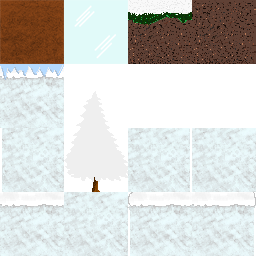
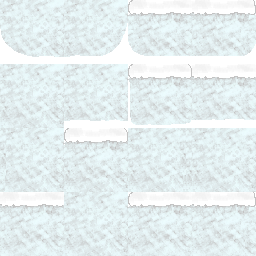
- improved tilemap * still to be finalized - improved design - improved camera * still to be finalized

diff --git a/engine/combiner/wgTileMap.js b/engine/combiner/wgTileMap.js
@@ -77,30 +77,53 @@ var wgTileMap = new function()
             args = new Array();
             
             if(this.tiles[tdata[i]]!=undefined) {
-                
-                //there may not only be one texture but multiple textures: top,topleft,topright,left,right,default
-                if(this.tiles[tdata[i]].length>=7) {
+                if(this.tiles[tdata[i]].length>=15) {
                     
                     // choose the right tile, depending on neighbours
-                    if((!tdata[(row-1)*this.width+(col)] && !tdata[(row)*this.width+(col-1)]) || !tdata[(row)*this.width+(col-1)]&&this.tiles[tdata[(row-1)*this.width+(col)]]!=this.tiles[tdata[(row)*this.width+(col)]])
+					//document.getElementById("info").innerHTML+=tdata[i]+"-"+"left"+tdata[(row)*this.width+(col-1)]+"right"+tdata[(row)*this.width+(col+1)]+"up"+tdata[(row-1)*this.width+(col)]+"dn"+tdata[(row+1)*this.width+(col)]+"<br/>";
+					
+					if(!tdata[(row-1)*this.width+(col)] && !tdata[(row+1)*this.width+(col)] && !tdata[(row)*this.width+(col+1)] && !tdata[(row)*this.width+(col-1)])
+                      args = this.tiles[tdata[i]][14];   //single
+					else if(!tdata[(row-1)*this.width+(col)] && !tdata[(row)*this.width+(col+1)] && !tdata[(row)*this.width+(col-1)])
+                      args = this.tiles[tdata[i]][7];   //topsingle
+					
+					else if(!tdata[(row-1)*this.width+(col)] && !tdata[(row+1)*this.width+(col)] && !tdata[(row)*this.width+(col-1)])
+                      args = this.tiles[tdata[i]][10];   //topbottomleft
+					else if(!tdata[(row-1)*this.width+(col)] && !tdata[(row+1)*this.width+(col)] && !tdata[(row)*this.width+(col+1)])
+                      args = this.tiles[tdata[i]][11];   //topbottomright
+					
+                    else if(!tdata[(row-1)*this.width+(col)] && !tdata[(row+1)*this.width+(col)])
+                      args = this.tiles[tdata[i]][9];   //topbottom
+					else if((!tdata[(row-1)*this.width+(col)] && !tdata[(row)*this.width+(col-1)]) || !tdata[(row)*this.width+(col-1)]&&this.tiles[tdata[(row-1)*this.width+(col)]]!=this.tiles[tdata[(row)*this.width+(col)]])
                       args = this.tiles[tdata[i]][2];   //topleft
                     else if((!tdata[(row-1)*this.width+(col)] && !tdata[(row)*this.width+(col+1)]) || !tdata[(row)*this.width+(col+1)]&&this.tiles[tdata[(row-1)*this.width+(col)]]!=this.tiles[tdata[(row)*this.width+(col)]])
                       args = this.tiles[tdata[i]][4];   //topright
                     else if(!tdata[(row-1)*this.width+(col)] || this.tiles[tdata[(row-1)*this.width+(col)]]!=this.tiles[tdata[(row)*this.width+(col)]])
                       args = this.tiles[tdata[i]][3];   //top
+					else if(!tdata[(row+1)*this.width+(col)] && !tdata[(row)*this.width+(col-1)])
+                      args = this.tiles[tdata[i]][12];   //bottomleft
+					else if(!tdata[(row+1)*this.width+(col)] && !tdata[(row)*this.width+(col+1)])
+                      args = this.tiles[tdata[i]][13];   //bottomright
+					else if(!tdata[(row+1)*this.width+(col)])
+                      args = this.tiles[tdata[i]][8];   //bottom
+					else if(!tdata[(row)*this.width+(col-1)] && !tdata[(row)*this.width+(col+1)])
+                      args = this.tiles[tdata[i]][15];   //leftright
                     else if(!tdata[(row)*this.width+(col-1)])
                       args = this.tiles[tdata[i]][5];   //left
                     else if(!tdata[(row)*this.width+(col+1)])
                       args = this.tiles[tdata[i]][6];   //right
-                    else if(this.tiles[tdata[i]].length>7) {
-                      var min=7;
+					
+					
+                    else if(this.tiles[tdata[i]].length>16) {
+                      var min=16;
                       var max=this.tiles[tdata[i]].length;
                       var rand = Math.floor(Math.random()*(max-min))+min;
                       
                       args = this.tiles[tdata[i]][rand];   // random default tiles
                     }
+					
                     else
-                      args = this.tiles[tdata[i]][7];   //default
+                     args = this.tiles[tdata[i]][16];   //default
                 } else
                     args = this.tiles[tdata[i]][2];
                 

diff --git a/sample_0/level.js b/sample_0/level.js
@@ -21,18 +21,39 @@ function gIniTiles() {
                                    {tex: "sample_0/worldatlas.png",
                                     texinfo: {cols:4, rows:4, width:256, height:256, set:6}   //6right
                                     ,group: 0},
-                                   {tex: "sample_0/worldatlas.png",
-                                    texinfo: {cols:4, rows:4, width:256, height:256, set:1}   //7def
+									{tex: "sample_0/worldatlas.png",
+                                    texinfo: {cols:4, rows:4, width:256, height:256, set:5}   //7topsingle
+                                    ,group: 0},
+									{tex: "sample_0/worldatlas.png",
+                                    texinfo: {cols:4, rows:4, width:256, height:256, set:9}   //8bottom
+                                    ,group: 0},
+									{tex: "sample_0/worldatlas.png",
+                                    texinfo: {cols:4, rows:4, width:256, height:256, set:11}   //9topbottom
+                                    ,group: 0},
+									{tex: "sample_0/worldatlas.png",
+                                    texinfo: {cols:4, rows:4, width:256, height:256, set:14}   //10topbottomleft
+                                    ,group: 0},
+									{tex: "sample_0/worldatlas.png",
+                                    texinfo: {cols:4, rows:4, width:256, height:256, set:15}   //11topbottomright
+                                    ,group: 0},
+									{tex: "sample_0/worldatlas.png",
+                                    texinfo: {cols:4, rows:4, width:256, height:256, set:12}   //12bottomleft
+                                    ,group: 0},
+									{tex: "sample_0/worldatlas.png",
+                                    texinfo: {cols:4, rows:4, width:256, height:256, set:13}   //13bottomright
+                                    ,group: 0},
+									{tex: "sample_0/worldatlas.png",
+                                    texinfo: {cols:4, rows:4, width:256, height:256, set:10}   //14single
+                                    ,group: 0},
+									{tex: "sample_0/worldatlas.png",
+                                    texinfo: {cols:4, rows:4, width:256, height:256, set:8}   //15leftright
                                     ,group: 0},
                                    {tex: "sample_0/worldatlas.png",
-                                    texinfo: {cols:4, rows:4, width:256, height:256, set:7}  //8def2
+                                    texinfo: {cols:4, rows:4, width:256, height:256, set:1}   //16def
                                     ,group: 0}
                                );
   
-  wgTileMap.addTile(2, aIce, { tex: "sample_0/worldatlas.png",
-                                    texinfo: {cols:4, rows:4, width:256, height:256, set:13}
-                                    ,group: 0
-                               });
+  wgTileMap.addTile(2, aIce, { tex: "sample_0/ice.png" });
   
   //tree
   wgTileMap.addTile(4, aSolid, { tex: "sample_0/tree.png",

diff --git a/sample_0/style.css b/sample_0/style.css
@@ -1,6 +1,6 @@
 body {
-margin:0;
-padding:0;
+  margin:0;
+  padding:0;
 }
 
 #content {
@@ -21,29 +21,89 @@ padding:0;
 }
 
 #counter {
-  width: 350px;
-  height: 50px;
   z-index: 0;
   position: absolute;
   text-align: left;
   left: 40px;
   top: 40px;
-  font-family: comic sans ms, verdana, arial;
+  font-family: georgia, verdana, arial;
+  font-size: 25px;
+  padding: 7px;
+  padding-right: 11px;
+  background: #232323;
+  color: #fefefe;
+  border: 1px solid 222222;
+  -moz-border-radius: 4px;
+  -webkit-border-radius: 4px;
+  -khtml-border-radius: 4px;
+  border-radius: 4px;
+  opacity: .9;
 }
 
-#timer {
-  width: 350px;
-  height: 50px;
+#counter img {
+  margin:0;
+  padding:0;
+  padding-right: 4px;
+  border: 0;
+  float: left;
+}
+
+#infobig {
   z-index: 0;
   position: absolute;
   text-align: left;
-  left: 800px;
+  display: none;
+  left: 350px;
+  top: 40%;
+  width: 260px;
+  font-family: verdana, arial;
+  font-size: 12px;
+  padding: 7px;
+  background: #232323;
+  color: #fefefe;
+  border: 1px solid 222222;
+  -moz-border-radius: 4px;
+  -webkit-border-radius: 4px;
+  -khtml-border-radius: 4px;
+  border-radius: 4px;
+  opacity: .9;
+}
+#infobig h2 {
+  font-family: georgia, verdana, arial;
+  margin: 0;
+  font-size: 20px;
+}
+
+#infobig span {
+  
+  color: #fefefe;
+  font-size: 14px;
+}
+
+#timer {
+  width: 50px;
+  z-index: 0;
+  position: absolute;
+  text-align: left;
+  left: 860px;
   top: 40px;
-  font-family: comic sans ms, verdana, arial;
+  font-family: georgia, verdana, arial;
+  padding: 7px;
+  padding-left: 11px;
+  background: #232323;
+  color: #fefefe;
+  border: 1px solid 222222;
+  -moz-border-radius: 4px;
+  -webkit-border-radius: 4px;
+  -khtml-border-radius: 4px;
+  border-radius: 4px;
+  opacity: .9;
 }
 
 button {
-  font-family: comic sans ms, verdana, arial;
+  font-family: verdana, arial;
+  font-size: 11px;
+  padding: 3px;
   border: 1px dotted black;
   color: #f7f7f7;
   background-color: #121212;

diff --git a/sample_0/game.js b/sample_0/game.js
@@ -54,6 +54,12 @@ function gRestart()
 	gGiftOutput();
 	gGlobals.player.object.moveToFront();
 	gGlobals.timer = 0;
+	
+	if(document.getElementById("infobig").style.display == 'block') {
+		document.getElementById("infobig").style.display = 'none';
+		document.getElementById("timer").style.display = 'block';
+		document.getElementById("counter").style.display = 'block';
+	}
 }
 
 function gCalcGifts() {
@@ -75,21 +81,25 @@ function gFoundGift()
 
 function gGiftOutput() {
 	if(gGlobals.countgifts==gGlobals.countgiftsoverall) {
-		document.getElementById("counter").innerHTML = "Gratz! Alle Geschenke gefunden!<br/><button id=\"nextlevel\">N&auml;chstes Level Starten</button>";
+		document.getElementById("infobig").innerHTML = "<h2>Gratulation!</h2><br/>Du hast alle Geschenke gefunden in einer Zeit von nur <span>"+Math.round(gGlobals.timer*100)/100+" Sekunden</span>.<br/><br/><button id=\"restart\">Neuer Versuch</button> <button id=\"nextlevel\">N&auml;chstes Level</button>";
+		document.getElementById("infobig").style.display = 'block';
+		document.getElementById("timer").style.display = 'none';
+		document.getElementById("counter").style.display = 'none';		
 		document.getElementById("nextlevel").onclick = gNextLevel;
+		document.getElementById("restart").onclick = gRestart;
 		wgKeyboard.onEnter = gNextLevel;
 	}
 	else
-		document.getElementById("counter").innerHTML = "Geschenke: "+gGlobals.countgifts+" / "+gGlobals.countgiftsoverall;
+		document.getElementById("counter").innerHTML = "<img src=\"sample_0/present01.png\"/> "+gGlobals.countgifts+" / "+gGlobals.countgiftsoverall;
 }
 
 function gameevent(ts)
 {
 	if(gGlobals.countgifts==gGlobals.countgiftsoverall)
 		return;
-
+	
 	gGlobals.timer += ts/1000.0;
-	document.getElementById("timer").innerHTML = "Time: "+Math.round(gGlobals.timer*1000.0)/1000.0;
+	document.getElementById("timer").innerHTML = Math.round(gGlobals.timer*100.0)/100.0;
 }
 
 function main()

diff --git a/engine/graphics/wgCamera.js b/engine/graphics/wgCamera.js
@@ -29,21 +29,29 @@ var wgCamera = new function()
     this.dir = 0;
     
     this.update = function(x,y) {
+	
 		if(this.pos.x==0||this.pos.y==0) {
 			this.pos.x=x;
 			this.pos.y=y;
 		}
 	
+        if(wgKeyboard.left)
+          this.dir=-1;
         
-        if(y>gGlobals.lvlbd+300)
-          this.pos.y=y;
-        
-        if(wgKeyboard.left&&this.dir>-100)
-          this.dir-=5;
-        
-        if(wgKeyboard.right&&this.dir<100)
-          this.dir+=5;
-        
-          this.pos.x=x+this.dir;
+        if(wgKeyboard.right)
+          this.dir=1;
+
+		// bottom border
+        if(y>gGlobals.lvlbd+400)
+			if(y-this.pos.y>this.pos.y-800) {
+				this.pos.y=y;
+			}
+		
+		if(x <= gGlobals.lvlbl+600)		  // left border
+          this.pos.x=gGlobals.lvlbl+600;
+		else if(x >= gGlobals.lvlbr+600)  // right border
+          this.pos.x=gGlobals.lvlbr+600;
+		else
+		  this.pos.x=x+this.dir;
     }
 };

diff --git a/sample_0/aPlayer.js b/sample_0/aPlayer.js
@@ -73,8 +73,12 @@ aPlayer.prototype.onUpdate = function(ts)
 		this.health = -1;
 		this.ent.object.material.setAnimation(1, 0, 0, 0);
 		
-		document.getElementById("counter").innerHTML = "Game Over. Der Dieb konnte entkommen.<br/><button id=\"retry\">Erneut Spielen</button>";
+		document.getElementById("infobig").innerHTML = "<h2>Gameover</h2>Der Dieb ist entkommen und Weihnachten wurde ruiniert!<br/><br/><center><button id=\"retry\">Erneut Spielen</button></center>";
+		document.getElementById("infobig").style.display = 'block';
+		document.getElementById("timer").style.display = 'none';
+		document.getElementById("counter").style.display = 'none';
 		document.getElementById("retry").onclick = gRestart;
+		
 		wgKeyboard.onEnter = gRestart;
 	}
 	

diff --git a/sample_0.html b/sample_0.html
@@ -47,7 +47,7 @@
 		<div id="content">
 			<canvas id="wgCanvas" height="448" width="960"></canvas>
 			<div id="counter"></div>
-			<div id="info"></div>
+			<div id="info"></div><div id="infobig"></div>
 			<div id="timer"></div>
 		</div>
     </body>
